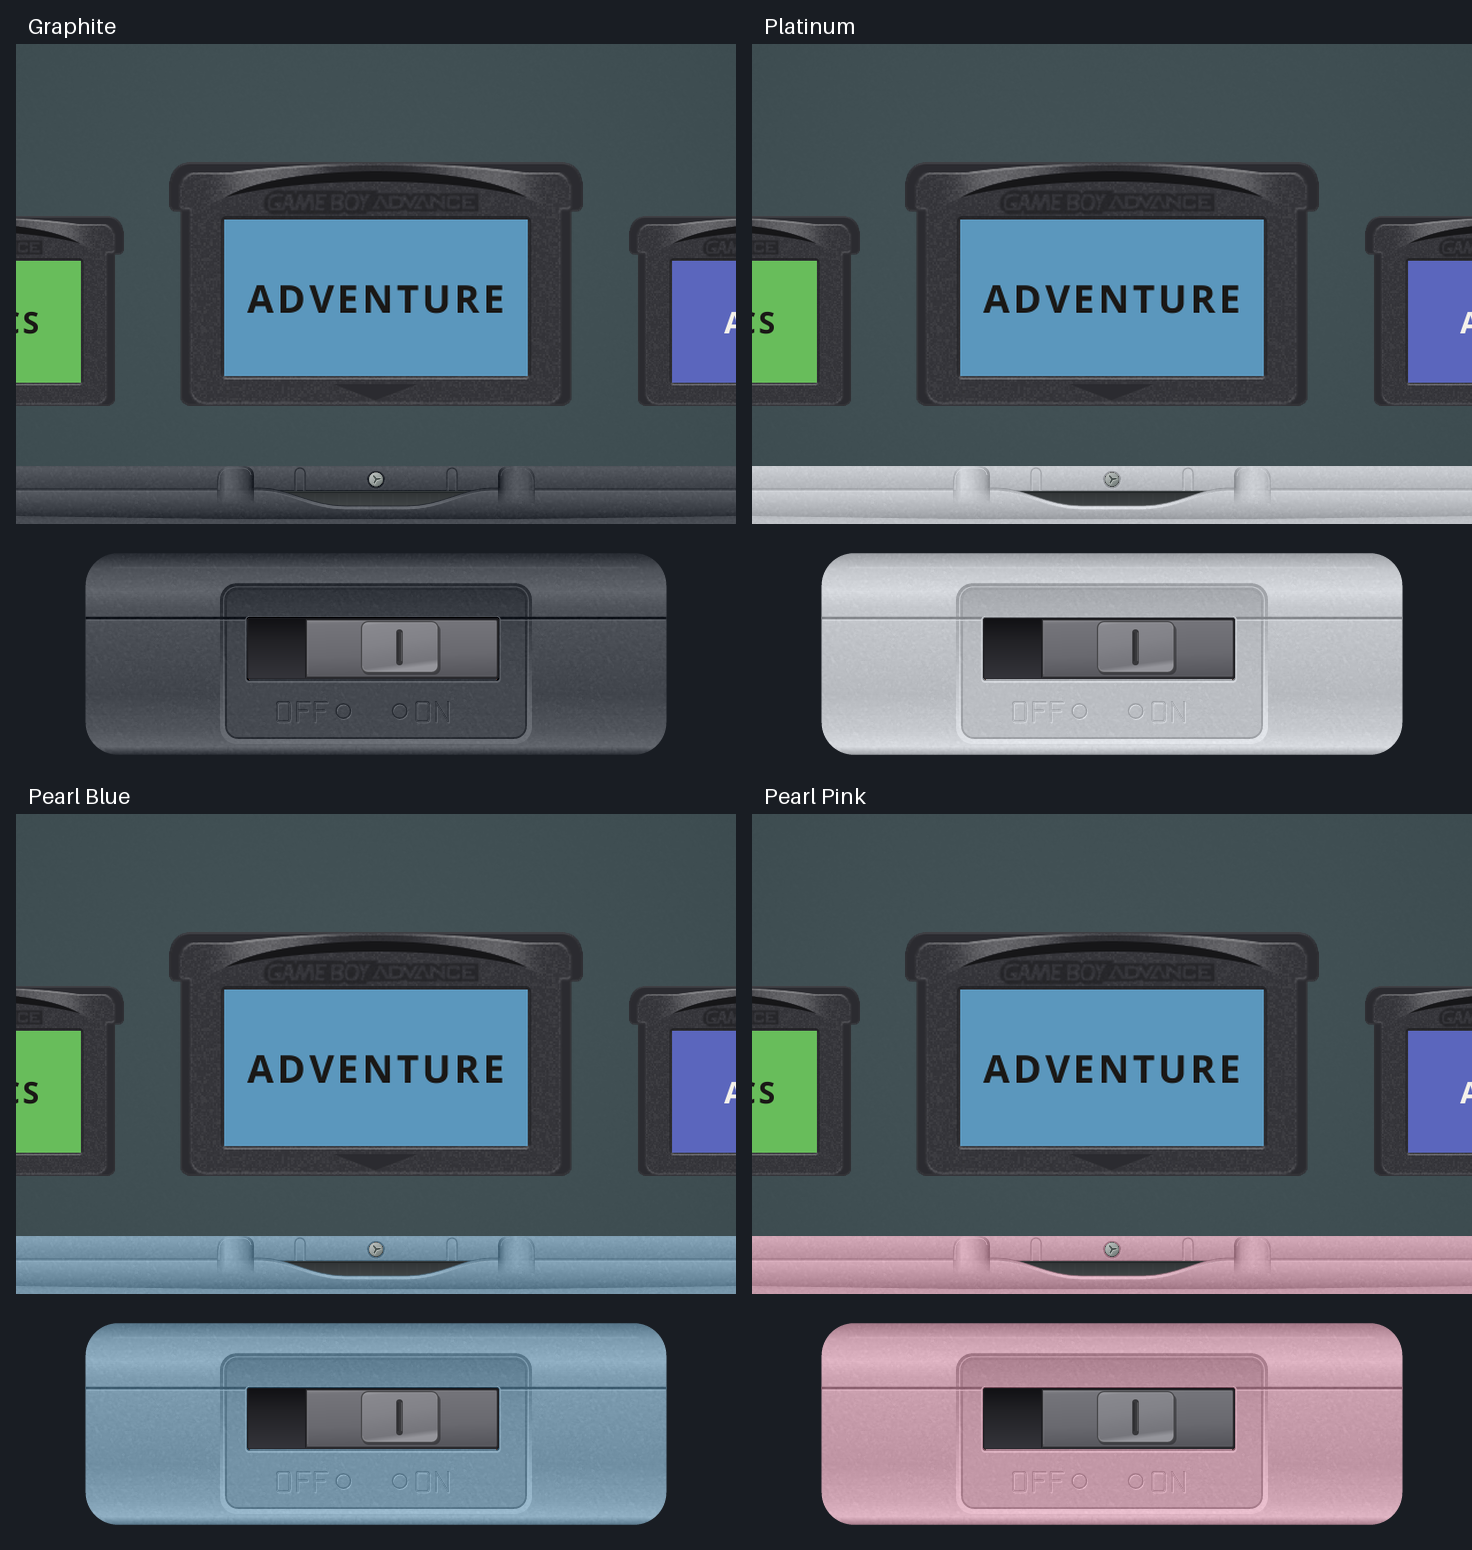
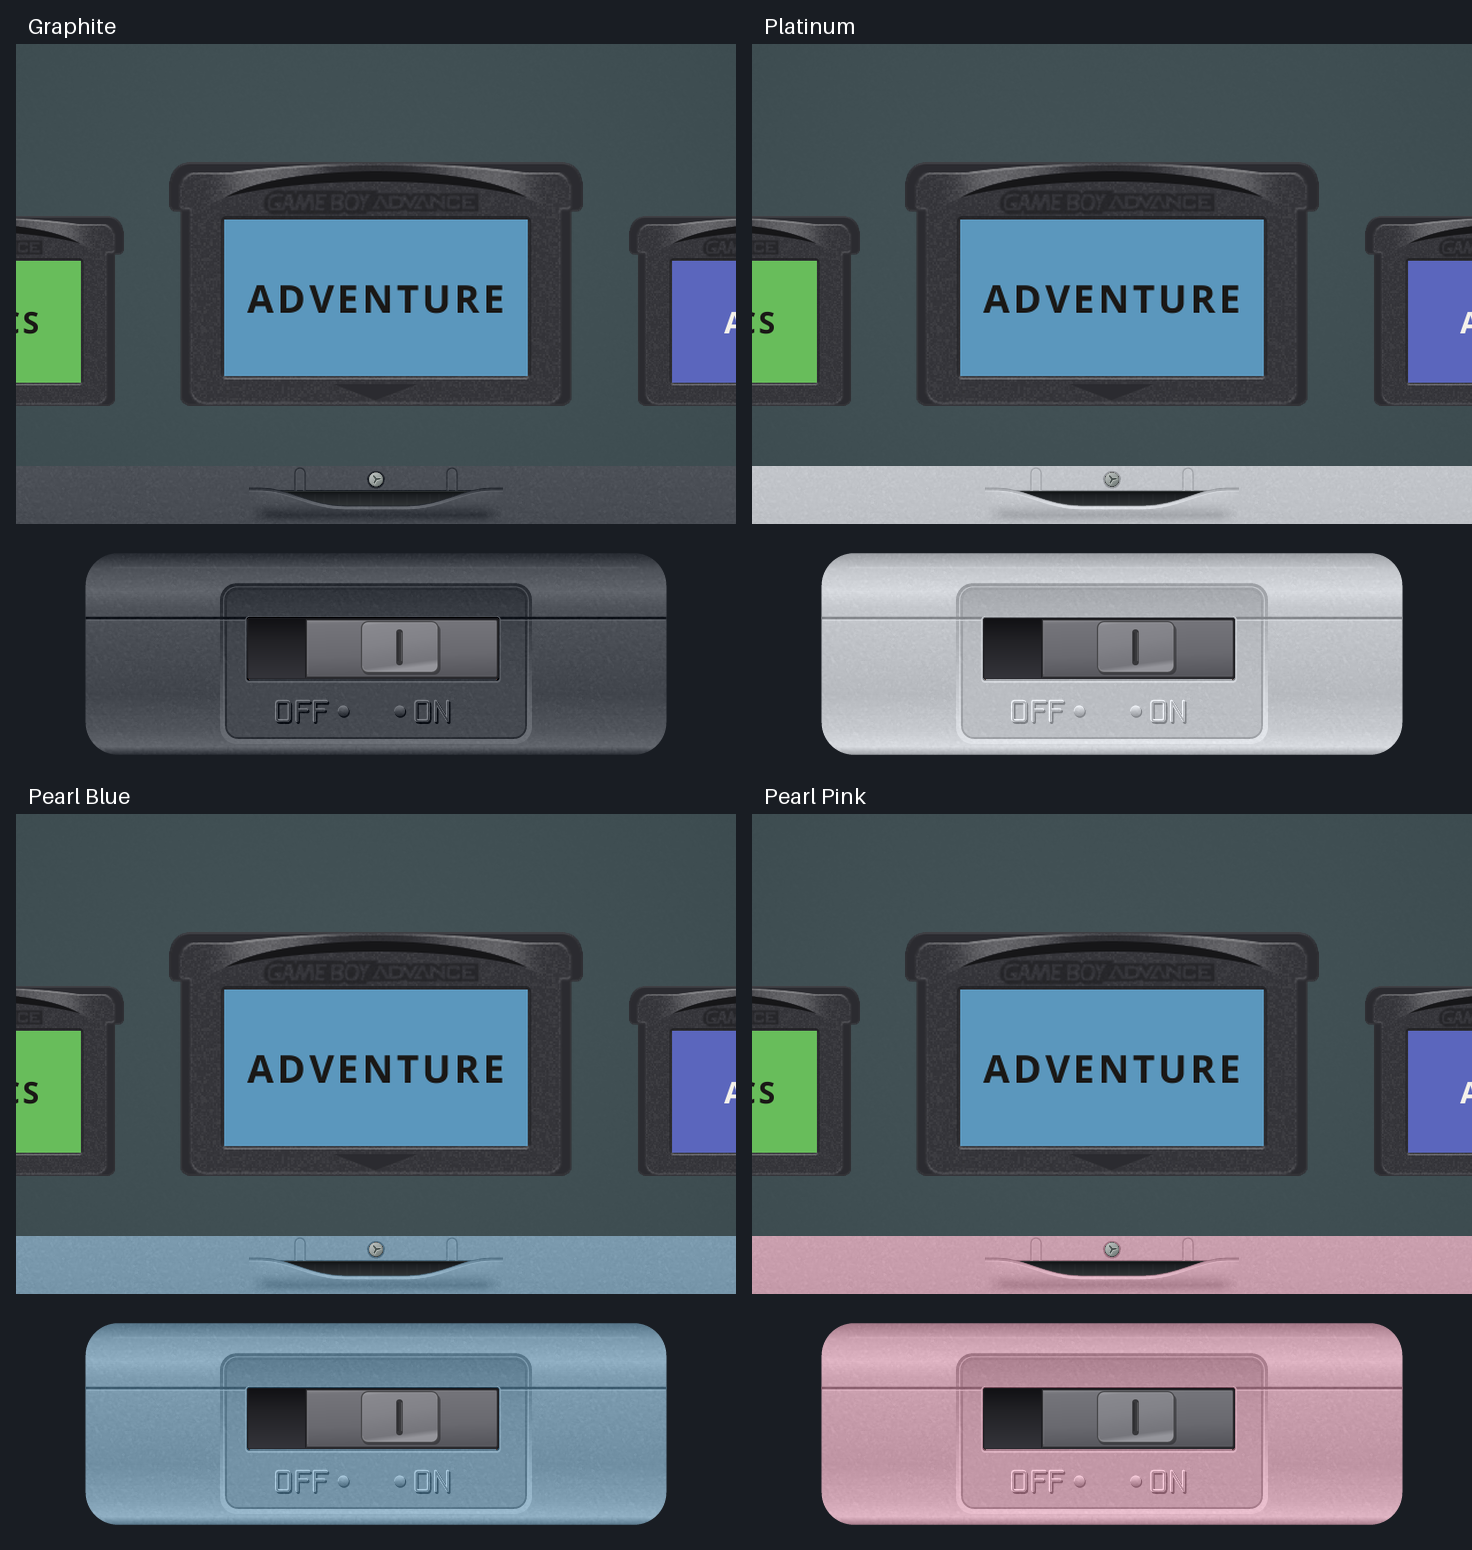
Extend slot shell without device edges, seat paks at shared connector stop, deepen switch embossing

diff --git a/crates/slot-ui/tests/chrome.rs b/crates/slot-ui/tests/chrome.rs
@@ -393,24 +393,13 @@ fn a_cart_shrinks_to_the_slot_by_the_lip() {
 }
 
 #[test]
-fn every_cartridge_seats_to_the_same_depth() {
-    let tops: Vec<(&str, f32)> = both()
-        .iter()
-        .map(|(name, c)| {
-            let out = chrome(c, 1.0);
-            (*name, quad(&out[cart_at(&out)]).y)
-        })
-        .collect();
-    let (first, rest) = tops.split_first().expect("two cartridges");
-    for (name, top) in rest {
-        assert!(
-            (top - first.1).abs() < 0.01,
-            "{name} seats with its top edge at {top} against {} for {}: one of them is in \
-             deeper than the other",
-            first.1,
-            first.0
-        );
+fn every_cartridge_seats_against_the_same_connector_stop() {
+    for (_,c) in both() {
+        let out=chrome(&c,1.0); let q=quad(&out[cart_at(&out)]);
+        assert!((q.y+q.h-559.0).abs()<0.01,"shared connector stop: {q:?}");
     }
+    assert!(cart_y(&pak(),1.0)<cart_y(&cart(),1.0)-100.0,
+        "the taller GB cartridge must remain above the shell");
 }
 
 #[test]
@@ -454,60 +443,24 @@ fn every_cartridge_lands_its_foot_on_the_lip_at_the_same_moment() {
 }
 
 #[test]
-fn a_seated_cart_stops_in_the_opening_and_covers_its_base() {
-    for (name, c) in both() {
-        let out = chrome(&c, 1.0);
-        let cart = quad(&out[cart_at(&out)]);
-        let recess = out
-            .iter()
-            .find_map(|d| tinted(d, recess()).then(|| quad(d)))
-            .expect("no recess drawn");
-        assert!(
-            cart.y > recess.y && cart.y < recess.y + recess.h,
-            "{name} stops at {} against a recess at {}..{}: it is not in the slot",
-            cart.y,
-            recess.y,
-            recess.y + recess.h
-        );
-        assert!(
-            cart.y + cart.h > recess.y + recess.h,
-            "{name} does not reach the bottom of the recess"
-        );
-        assert!(
-            cart.y >= OUT_H as f32 - MOUTH_H,
-            "{name} is left standing above the case"
-        );
+fn seated_cartridges_keep_their_grip_out_and_their_connector_inside() {
+    for (_,c) in both() {
+        let out=chrome(&c,1.0);let q=quad(&out[cart_at(&out)]);
+        assert!(q.y<OUT_H as f32-MOUTH_H,"grip was swallowed: {q:?}");
+        assert!(q.y+q.h>OUT_H as f32,"connector did not enter: {q:?}");
     }
 }
 
 #[test]
-fn a_seated_cart_shows_at_most_a_sliver_of_label_and_a_pak_shows_none() {
-    for (name, c, shows_paper) in [
-        ("the GBA cart", cart(), true),
-        ("the Game Boy pak", pak(), false),
-    ] {
-        let out = chrome(&c, 1.0);
-        let cart = quad(&out[cart_at(&out)]);
-        let deepest = out
-            .iter()
-            .filter(|d| is_mouth(d) || tinted(d, recess()))
-            .map(|d| {
-                let q = quad(d);
-                q.y + q.h
-            })
-            .fold(0.0, f32::max);
-        let (label_y, label_h) = label_band(&c);
-        let peek = deepest - (cart.y + label_y);
-        assert!(
-            peek < label_h / 4.0,
-            "{peek}px of {name}'s {label_h}px label is out of the machine"
-        );
-        assert_eq!(
-            peek > 0.0,
-            shows_paper,
-            "{name} shows {peek}px of label, which is not what this cartridge is supposed to \
-             leave showing"
-        );
+fn gba_shows_a_label_sliver_while_the_taller_gb_pak_keeps_its_upper_label_out() {
+    for (_,c) in both() {
+        let q=cart_quad(&c,1.0);let (y,h)=label_band(&c);
+        let peek=OUT_H as f32-MOUTH_H+40.0-(q.y+y);
+        if c.platform==Platform::Gba {
+            assert!((0.0..h/4.0).contains(&peek),"GBA peek {peek} of {h}");
+        } else {
+            assert!((h*0.4..h*0.8).contains(&peek),"GB peek {peek} of {h}");
+        }
     }
 }
 

diff --git a/crates/slot-ui/tests/shell_material.rs b/crates/slot-ui/tests/shell_material.rs
@@ -68,14 +68,43 @@ fn screw_edges_never_leak_the_svg_red_paint_marker() {
 }
 
 #[test]
-fn raised_bridge_has_thickness_and_returns_to_the_lower_deck() {
+fn slot_lip_has_thickness_and_blends_into_the_unbounded_shell() {
     let front = shell_slot_faces(ShellColour::Platinum)[1];
     let at = |x: usize,y: usize| (y*720+x)*4;
-    // Rolled shoulders overlap the rear wall; the centre remains an opening.
+    // Plain shell continues to either side; the centre remains an opening.
     assert!(front[at(215,10)+3]>250);
     assert!(front[at(505,10)+3]>250);
     assert_eq!(front[at(360,30)+3],0);
     // Forward crest, shaded front face, and lower deck have separate lighting.
     assert!(front[at(360,43)]>front[at(360,49)]+12);
     assert!(front[at(360,56)]>front[at(360,50)]+12);
+}
+
+#[test]
+fn shell_has_no_device_shoulders_or_outer_seams() {
+    for colour in ShellColour::FINISHES {
+        let front=shell_slot_faces(colour)[1]; let base=shell_rgb(colour);
+        for x in [40usize,100,200,215,505,520,620,680] {
+            for y in 0..58 {
+                let p=&front[(y*720+x)*4..][..4];
+                assert_eq!(p[3],255,"outer shell interrupted at {x},{y}");
+                for c in 0..3 { assert!((p[c] as i16-base[c] as i16).abs()<15,
+                    "outer outline or shoulder at {x},{y}: {p:?}"); }
+            }
+        }
+    }
+}
+
+#[test]
+fn power_labels_and_both_dots_have_readable_embossed_relief() {
+    for colour in ShellColour::FINISHES {
+        let face=power_switch_faces_for(colour)[0].rgba.clone();
+        for (x0,x1) in [(200,256),(338,375),(257,278),(313,334)] {
+            let mut lo=255u8;let mut hi=0u8;
+            for y in 165..191 { for x in x0..x1 {
+                let v=face[(y*600+x)*4];lo=lo.min(v);hi=hi.max(v);
+            }}
+            assert!(hi-lo>=65,"{colour:?} marking at {x0}: relief {}",hi-lo);
+        }
+    }
 }

diff --git a/crates/slot-ui/src/slot_chrome.rs b/crates/slot-ui/src/slot_chrome.rs
@@ -68,7 +68,11 @@ pub fn recess() -> [f32; 4] {
 
 const LIP_Y: f32 = BAND_Y;
 
-const SEATED_Y: f32 = BAY_Y + 4.0;
+// At the accepted artwork scale the 60 mm GBA cap is 240 px wide.
+// The common connector stop is about 28 mm behind the straight mouth plane,
+// photo-calibrated from inserted SP paks; this is not an engineering tolerance.
+const MM_TO_PX: f32 = SEATED_W as f32 / 60.0;
+const SEATED_FOOT: f32 = BAND_Y + 25.0 + 28.0 * MM_TO_PX;
 
 fn catch_at(foot: f32, seated_foot: f32) -> f32 {
     (LIP_Y - foot) / (seated_foot - foot)
@@ -130,11 +134,9 @@ impl SlotChrome<'_> {
         let (cw, ch) = (cw as f32, ch as f32);
 
         let scale = self.scale.clamp(0.0, crate::shelf::shelf_scale(self.cart.platform));
-        let aspect = ch / cw;
         let w0 = cw * scale;
         let sw = seated_box(self.cart.platform).0 as f32;
-        let sh = sw * aspect;
-        let (foot0, seated_foot) = (foot_y(ch), SEATED_Y + sh);
+        let (foot0, seated_foot) = (foot_y(ch), SEATED_FOOT);
         let catch = catch_at(foot0, seated_foot);
         let travel = travel(seat, catch);
         let k = (travel / catch).min(1.0);

diff --git a/crates/slot-ui/tests/cart.rs b/crates/slot-ui/tests/cart.rs
@@ -451,15 +451,15 @@ fn every_cartridge_is_centred_on_the_row_and_clears_both_the_plate_and_the_slot(
     let lip = OUT_H as f32 - MOUTH_H;
     for (name, h, span) in [
         ("the GBA cart", CART_H, OUT_H as f32),
-        ("the Game Boy pak", GB_CART_H, lip),
+        ("the Game Boy pak", GB_CART_H, lip + PLATE_H),
     ] {
         let (top, foot) = (rest_y(h as f32), foot_y(h as f32));
         assert_eq!(top, top.round(), "{name} top is off the pixel grid: {top}");
-        assert_eq!(
-            foot,
-            foot.round(),
-            "{name} foot is off the pixel grid: {foot}"
-        );
+        // Enlarged cartridges keep a uniform fractional scale; only their resting
+        // top is snapped. Requiring an integer foot would distort their height.
+        let zoom=if h==CART_H {1.15} else {1.08};
+        assert!((foot-top-h as f32*zoom).abs()<0.001,
+            "{name} lost its proportional enlarged height");
         assert!(
             (top + foot - span).abs() <= 1.0,
             "{name} stands at {top}..{foot}, which is not centred in {span}px"

diff --git a/crates/slot/tests/render_shelf.rs b/crates/slot/tests/render_shelf.rs
@@ -189,12 +189,9 @@ fn the_card_says_which_tetris_is_in_the_slot() {
     let unstated = resumed_shot(&d, &mut c, None, "resume-unstated");
 
     let (top, bottom) = cartridge_rows(&gba).expect("no cartridge in the slot at all");
-    assert_eq!(
-        cartridge_rows(&gb),
-        Some((top, bottom)),
-        "the two cartridges are not seated at the same depth, so what follows would be \
-         comparing different parts of them"
-    );
+    let (gb_top,gb_bottom)=cartridge_rows(&gb).expect("no GB cartridge");
+    assert!(gb_top+80<top,"the taller GB cartridge must stand farther out");
+    assert_eq!(gb_bottom,bottom,"both cartridges occlude at the same front lip");
     let row = (top + bottom) / 2;
     let (dark, pale) = (centre(&gba, row), centre(&gb, row));
     assert!(

diff --git a/crates/slot-ui/examples/shell_finish_preview.rs b/crates/slot-ui/examples/shell_finish_preview.rs
@@ -22,7 +22,9 @@ fn main() {
         std::fs::create_dir_all(&dir).unwrap();
         let mut shelf = Shelf::new(["CLASSICS", "ADVENTURE", "ARCADE"].iter().map(|name| Cart {
             platform, stem: name.to_string(), rom: format!("{name}.gba").into(),
-            label: None, code: String::new(), shell: None, title: name.to_string(),
+            label: None, code: String::new(),
+            shell: (platform==Platform::Gbc).then(||slot_store::ShellChoice::parse("rounded 7585a4 solid").unwrap()),
+            title: name.to_string(),
         }).collect());
         for (i, cart) in shelf.carts.iter().enumerate() {
             let f = slot_ui::cart_face(cart);

diff --git a/crates/slot-ui/src/shelf.rs b/crates/slot-ui/src/shelf.rs
@@ -24,7 +24,7 @@ const SIDE_ALPHA: f32 = 1.0;
 
 pub fn rest_y(h: f32) -> f32 {
     let y = if h > CART_H as f32 {
-        (OUT_H as f32 - MOUTH_H - h) / 2.0
+        (crate::hud::PLATE_H + OUT_H as f32 - MOUTH_H - h) / 2.0
     } else {
         (OUT_H + CART_H) as f32 / 2.0 - h
     };

diff --git a/MATERIALS.md b/MATERIALS.md
@@ -80,8 +80,8 @@ The accepted cartridge sizes and insertion timing are retained.
 
 Insertion and shelf departure use one width-derived scale for both axes, preserving
 the source cartridge aspect ratio exactly instead of interpolating rounded endpoint
-widths/heights independently. The seated foot uses that same height so every
-platform seats at the same top edge. Tests sample GBA, GB and GBC over the full
+widths/heights independently. All three cartridge types meet the same connector stop; taller GB/GBC paks
+retain their extra height outside the shell. Tests sample GBA, GB and GBC over the full
 stroke at 720 and 640 pixels, including the actual enlarged carousel start and
 rear/cart/front draw ordering.
 
@@ -97,8 +97,35 @@ python tools/compose-slot-motion.py /tmp/slot-motion /tmp/slot-motion.gif
 Use `gb` or `gbc` in place of `gba` for the other cartridge shapes.
 
 The full front and oblique reference photographs establish the slot volume:
-rolled shoulders rise above the lower shell, the curved bridge has a set-back
-inner bevel and a forward crest, and its shaded front face returns onto a lower
-deck with a contact shadow. These are distinct SVG surfaces rather than a flat
-cutout mask. The rear layer includes the metal liner behind the inserted cart.
-The two requested inverted-U ribs remain separate from the larger rolled shoulders.
+the curved lip has a set-back inner bevel and a forward crest, and its shaded
+front face blends smoothly into the lower shell. The rear layer includes the
+metal liner behind the inserted cart. Device end shoulders, side outlines and
+bottom seams are omitted: the plain shell continues to both screen edges.
+Only the slot itself has edges. The two small inverted-U ribs remain.
+
+## Seating calibration and marking legibility
+
+- GBA caliper measurements: 60.0 mm across the cap, 56.9 mm across the body,
+  34.5 mm high; [original measurement photographs](https://nantoka-game.com/?p=318).
+- GB/Color family body: approximately 57 × 65.5 mm; [iFixit cartridge reference](https://www.ifixit.com/Device/Nintendo_Game_Cartridge).
+- Inserted GB reference: [Willem Middelkoop's own SP repair photograph](https://willem.com/en/2017-03-26_repairing-a-nintendo-gameboy-advance-sp/).
+- The two supplied inserted GBA photographs calibrate the visible grip.
+
+The existing art includes transparent horizontal margins, particularly on GB/GBC;
+its opaque body, rather than the entire texture rectangle, sets physical width.
+Retain the approved shelf sizes and uniform aspect ratio. At the accepted seated
+scale the 60 mm GBA cap is 240 px; the ~57 mm GB body is ~227 px inside its padded
+240 px texture. A shared connector stop ~28 mm beyond the straight mouth plane
+leaves roughly 7 mm of GBA grip and 37 mm of GB/GBC body outside that plane.
+The central scoop reveals a little more. This depth is a photographic estimate,
+not an official engineering measurement or a claim of physical screen sizing.
+The old common-top alignment incorrectly swallowed tall paks and is removed.
+
+The switch's ON/OFF paths and both solid molded pips now have stronger upper-left
+highlights and lower-right shadows. The same paint palette and grain remain;
+timing, slider geometry and sound are unchanged.
+
+The enlarged GB/GBC shelf placement is centered in the usable area below the HUD,
+rather than underneath its top plate. Cartridge size is unchanged. The cartridge
+geometry checks retain fractional uniform scaling instead of requiring the
+scaled lower edge to land on an integer pixel.
